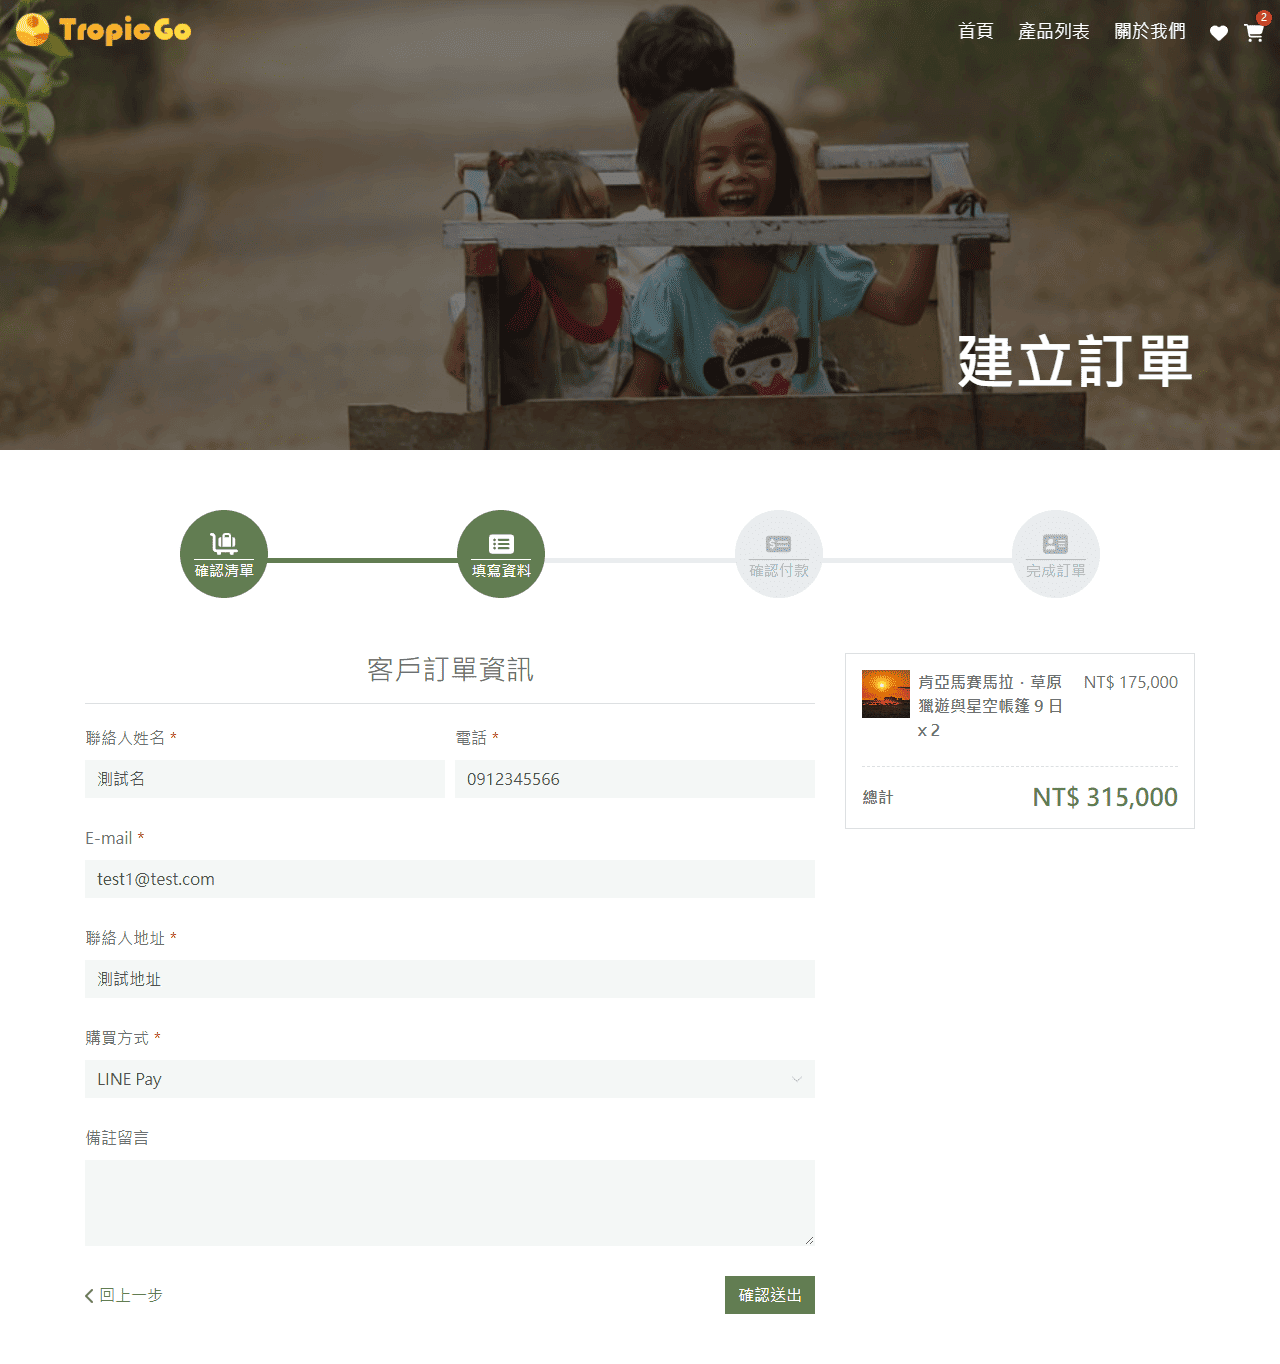
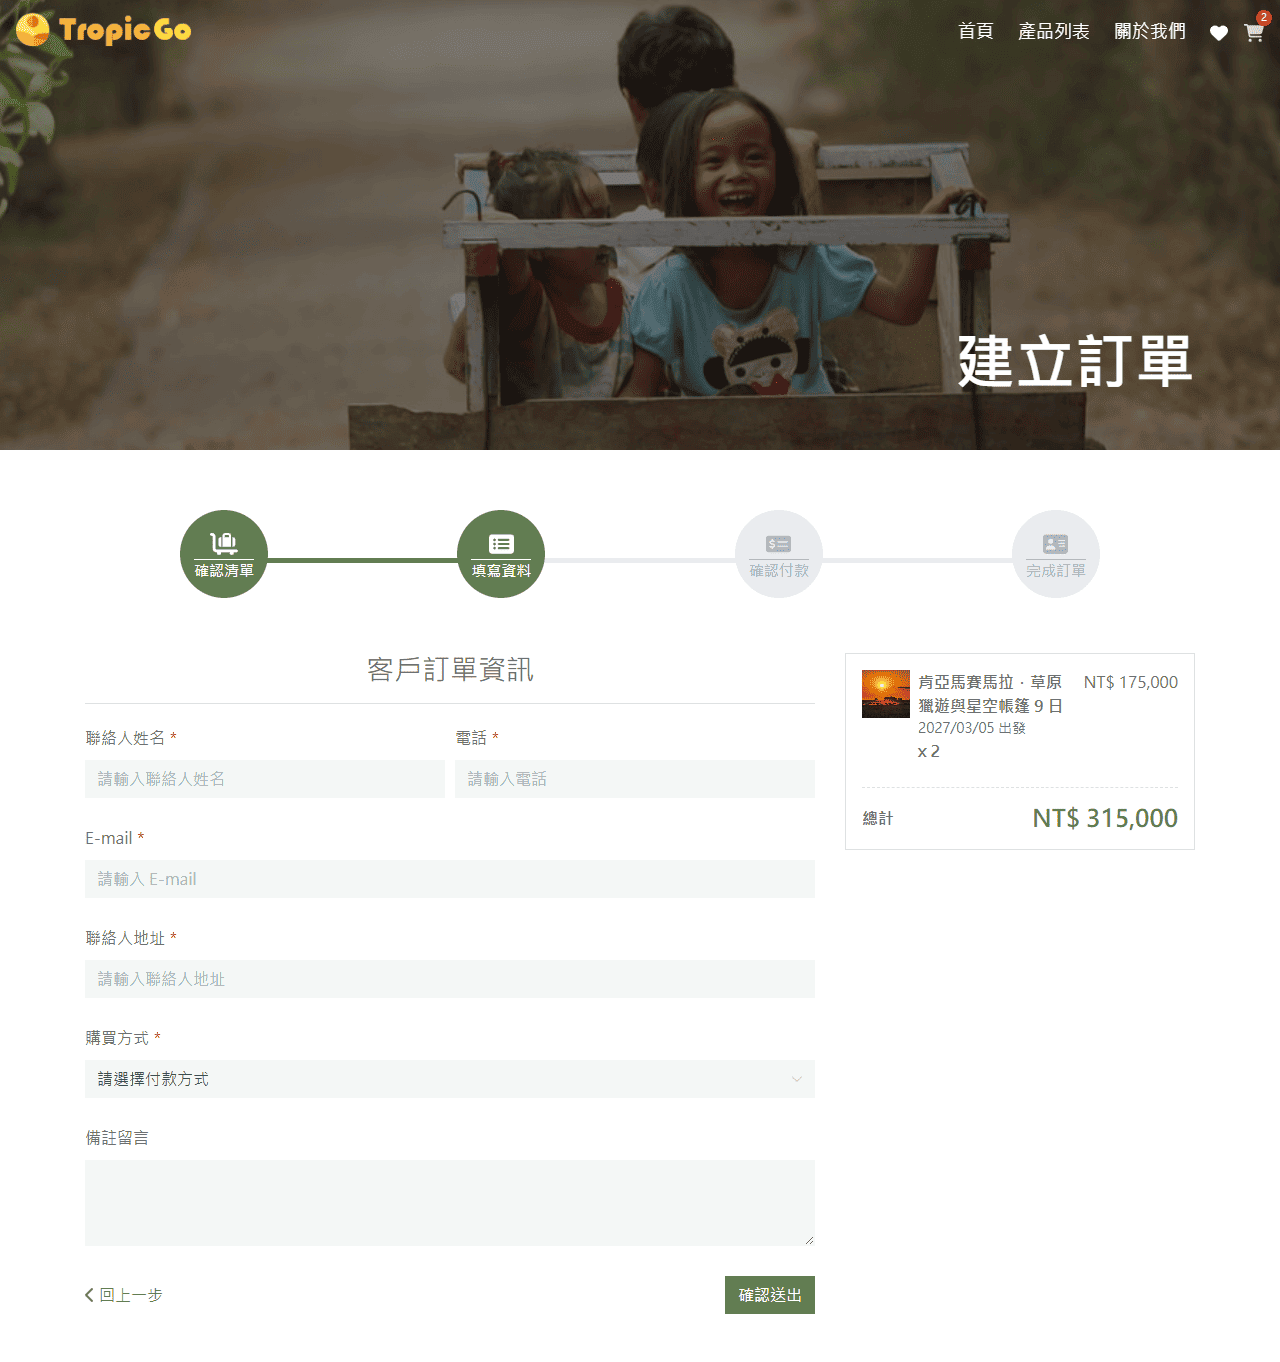
docs: ✏ 補上梯次功能的文件與截圖
- README 補上選擇出發日期、梯次管理、超賣防護、seed:departures
- README 拿掉「commit 中標示為共同作者」
- 更新產品列表、產品詳情、結帳截圖
- openapi.yaml 補上建立訂單、刪除行程、更新訂單狀態的說明
- 表單欄位補上 name，出發日期選單加上手指游標

diff --git a/frontend/src/views/front/ProductView.vue b/frontend/src/views/front/ProductView.vue
@@ -281,7 +281,8 @@
                 v-if="departures.length"
                 ref="departureSelectRef"
                 v-model="departureId"
-                class="w-full h-[38px] px-3 border border-secondary text-secondary bg-white outline-none transition-shadow focus:shadow-[0_0_0_0.2rem_rgba(98,125,82,0.25)]"
+                name="departure"
+                class="w-full h-[38px] px-3 border cursor-pointer border-secondary text-secondary bg-white outline-none transition-shadow focus:shadow-[0_0_0_0.2rem_rgba(98,125,82,0.25)]"
                 aria-label="出發日期"
               >
                 <option
@@ -323,6 +324,7 @@
                   </button>
                   <input
                     v-model.number="quantity"
+                    name="quantity"
                     type="number"
                     min="1"
                     :max="maxQuantity"

diff --git a/frontend/src/components/front/CartListStep.vue b/frontend/src/components/front/CartListStep.vue
@@ -123,6 +123,7 @@
                 </button>
                 <input
                   :value="item.quantity"
+                  name="quantity"
                   type="number"
                   min="1"
                   :max="MAX_QUANTITY"
@@ -174,6 +175,7 @@
         >
           <input
             v-model="couponCode"
+            name="coupon"
             type="text"
             class="flex-1 min-w-0 px-2 py-1 text-[14px] border border-secondary text-[#495057] outline-none placeholder:text-[#adb5bd]"
             placeholder="請輸入折扣碼"
